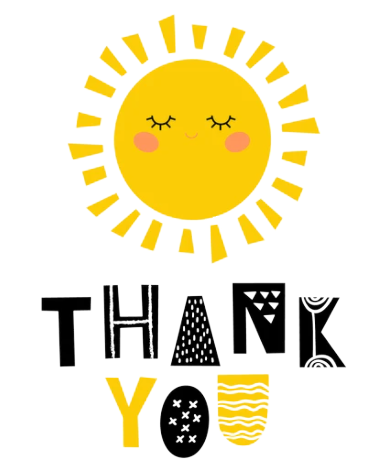
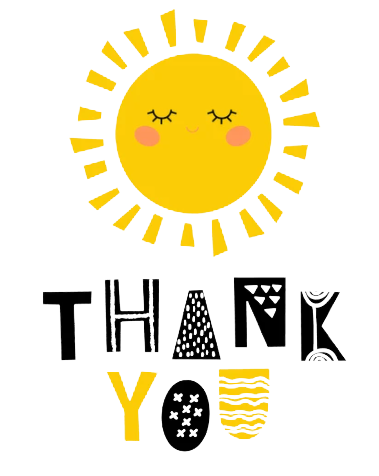
Change image class name for 404 & form sent page

diff --git a/assets/js/contact-form.js b/assets/js/contact-form.js
@@ -15,6 +15,7 @@ document.getElementById("contact-form").addEventListener("submit", function (eve
         .then(() => {
             sendFormButton.value = "Send";
             formSubmittedMessage();
+
         }, (err) => {
             console.log(JSON.stringify(err));
         });
@@ -23,7 +24,7 @@ document.getElementById("contact-form").addEventListener("submit", function (eve
 
 function formSubmittedMessage() {
     let message = `
-            <div class="image-404">
+            <div class="image-other-screens">
                 <img src="assets/images/contact-form-thankyou-image.png" alt="Sun image with thank you writing">
             </div>
             <a href="index.html" class="button my-3">Go back</a>

diff --git a/assets/css/style.css b/assets/css/style.css
@@ -313,9 +313,9 @@ a:hover {
     line-height: normal;
 }
 
-.image-404 img {
+.image-other-screens img {
     width: 35%;
-    padding: 1.5rem 0;
+    padding: 1rem 0;
 }
 
 /* Media querry adjustments for different screen sizes */
@@ -337,7 +337,7 @@ a:hover {
         width: 25%;
     }
 
-    .image-404 img {
+    .image-other-screens img {
         width: 50%;
     }
 }
@@ -385,5 +385,9 @@ a:hover {
 
     .image-result img {
         width: 40%;
+    }
+
+    .image-other-screens img {
+        width: 65%;
     }
 }

diff --git a/404.html b/404.html
@@ -27,7 +27,7 @@
     <div id="game-container" class="border-2 rounded bg-light p-3">
                 <h1>404<h1>
                     <h2>This is not the page you were looking for!</h2>
-            <div class="image-404">
+            <div class="image-other-screens">
                 <img src="assets/images/404-error-image.png" alt="An angry cloud with lightning in its hands">
             </div>
 
